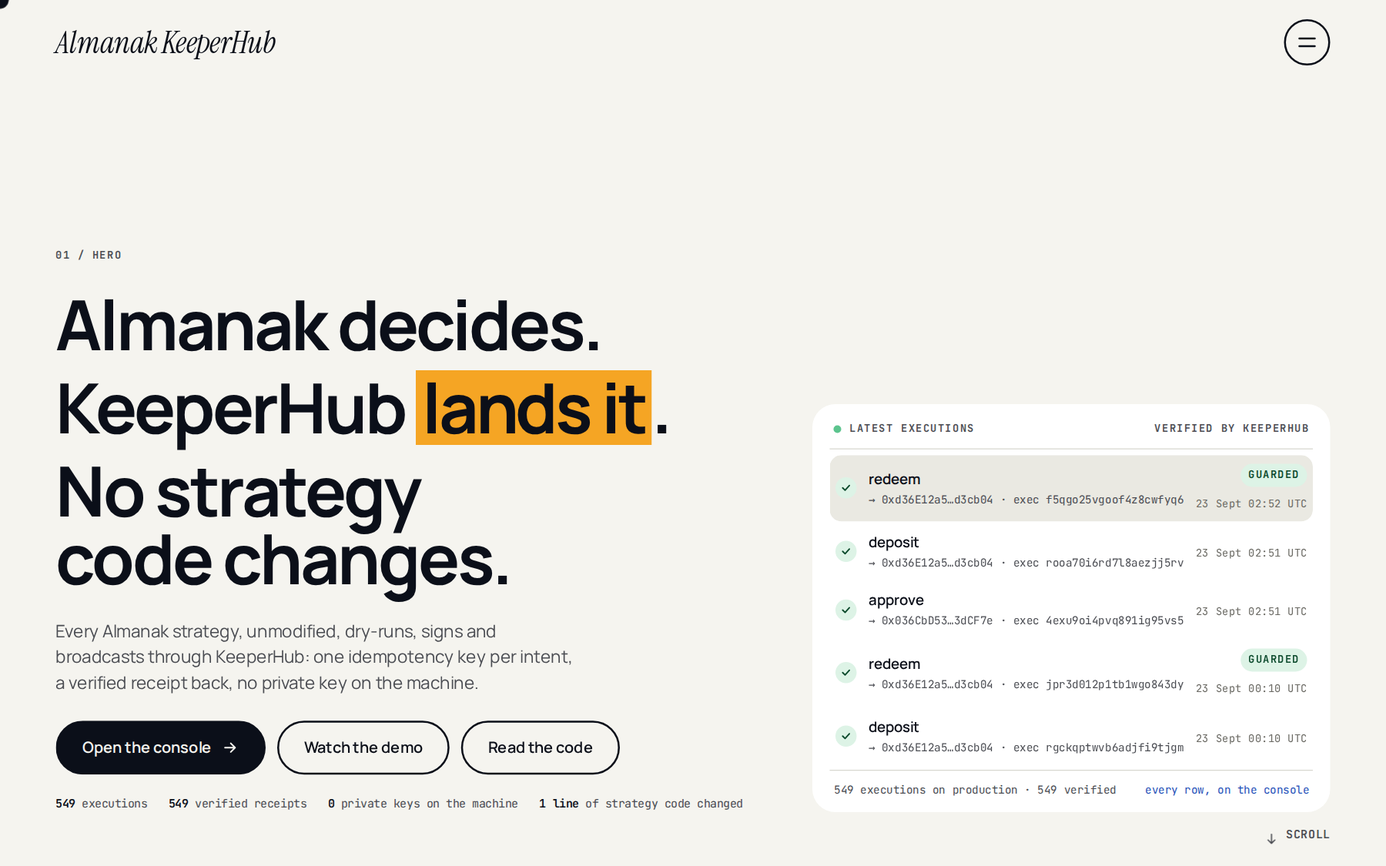
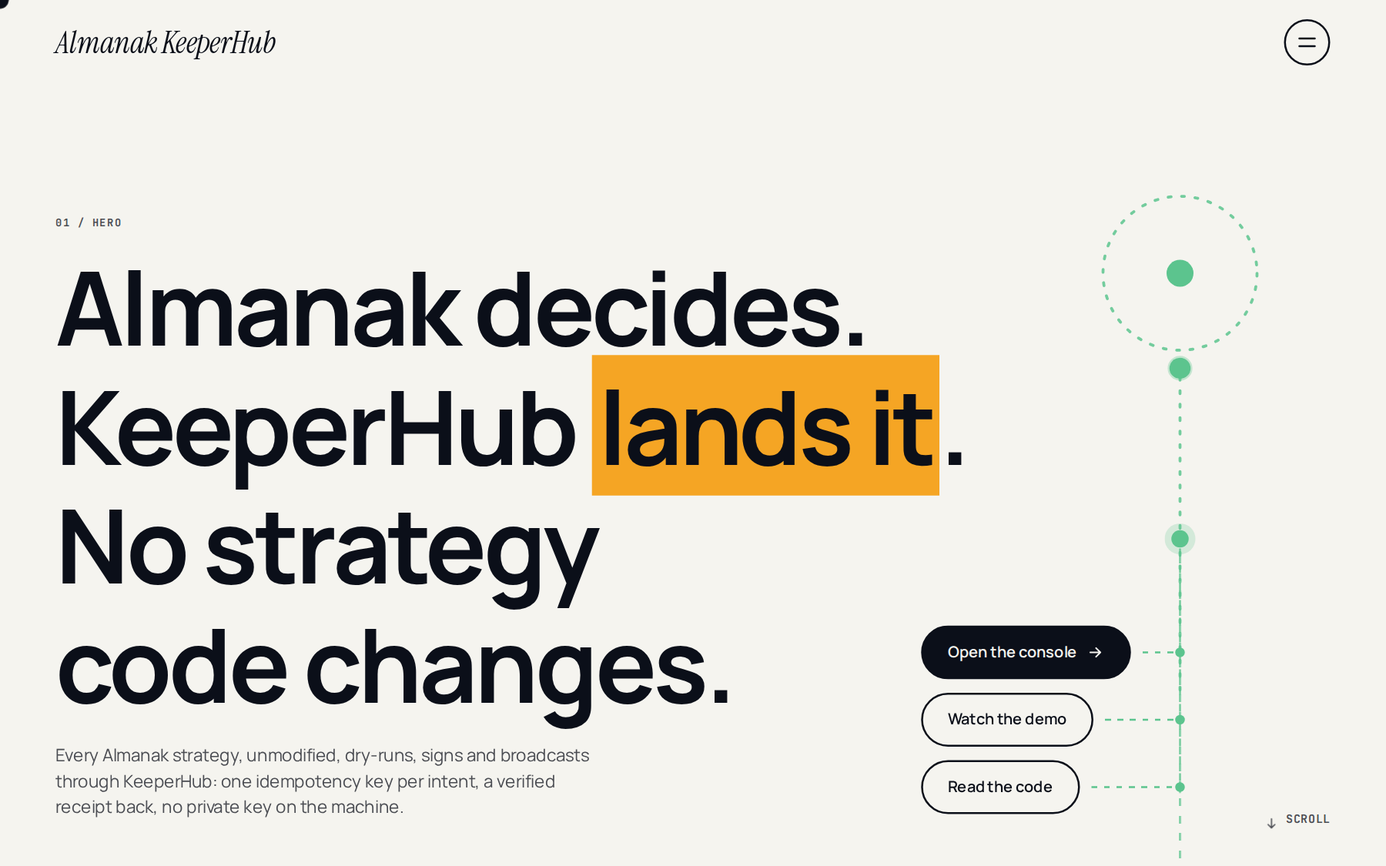
The page as it was, with the green bar replaced by a dashed track and a travelling marker
Everything from before the redesign attempts is back: the hero with the pin and the three buttons as
stops, the menu, the sticky panels, the cursor, the serif wordmark, the footer name. Only the connector
changes. The 28px mint bar that drew itself with the scroll is now a 2px dashed track, always fully
visible, with an 18px marker that travels down it as the reader scrolls, sitting at 62% of the viewport
with the same easing the bar had. The hero pin becomes a dashed ring around a solid origin and a dashed
track with a dot running down it on its own, the stubs to the buttons are dashed with an end dot, and the
route behind the lifecycle cards is dashed too. The pipeline markers still fill as the marker passes.
The strip's upstream figure reads two merged, five in review. README hero and social image retaken.

diff --git a/almanak_keeperhub/console/site.html b/almanak_keeperhub/console/site.html
@@ -63,7 +63,7 @@
     --ink:var(--stone-900); --heading:var(--stone-900); --muted:rgba(11,15,25,.85); --faint:rgba(11,15,25,.7);
     --link:var(--stone-900); --link-hover:var(--stone-950); --hairline:rgba(11,15,25,.28); --strong:var(--stone-900);
   }
-  @media (prefers-reduced-motion:reduce){ .spine-v{transition:none} :root{ --d-fast:0ms; --d-medium:0ms; --d-cover:0ms; --d-path:0ms; --d-line:0ms; --stagger:0ms; } html{scroll-behavior:auto} }
+  @media (prefers-reduced-motion:reduce){ .spine-v::after{transition:none} :root{ --d-fast:0ms; --d-medium:0ms; --d-cover:0ms; --d-path:0ms; --d-line:0ms; --stagger:0ms; } html{scroll-behavior:auto} }
 
   *,*::before,*::after{box-sizing:border-box;box-shadow:none}
   html{background:var(--canvas);scroll-behavior:smooth;scroll-padding-top:96px;-webkit-text-size-adjust:100%}
@@ -220,49 +220,32 @@
   .draw.in path{animation:draw var(--d-path) var(--ease) both;animation-delay:calc(var(--d-path) * .7)}
   @keyframes draw{to{stroke-dashoffset:0}}
 
-  /* ---- hero: the claim on the left, the newest receipts landing on the right ---- */
-  .hero{min-height:100vh;display:grid;align-content:end;padding-top:112px;padding-bottom:56px;position:relative}
+  /* ---- hero ---- */
+  .hero{min-height:100vh;display:grid;align-content:end;padding-top:120px;padding-bottom:48px;position:relative}
   .hero .g{align-items:end}
+  .hero .g>*{grid-row:1}
   .hero h1{max-width:none}
-  .hero .copy{grid-column:1/span 7}
-  .hero .lede{margin-top:22px;color:var(--muted);font-size:var(--body-lg);line-height:1.5;max-width:50ch}
-  .hero .actions{display:flex;flex-wrap:wrap;gap:12px;margin-top:26px}
-  .hero .facts{display:flex;flex-wrap:wrap;gap:8px 22px;margin-top:22px;font-family:var(--mono);font-size:12px;color:var(--muted)}
-  .hero .facts b{color:var(--ink);font-weight:600}
-  .tape{grid-column:8/span 5;background:var(--card);border-radius:var(--r-card-lg);padding:18px 18px 14px;align-self:end}
-  .tape .head{display:flex;align-items:center;justify-content:space-between;gap:12px;padding:0 4px 12px;border-bottom:1px solid var(--hairline)}
-  .tape .head .mono-label{display:flex;align-items:center;gap:8px}
-  .tape .live{width:8px;height:8px;border-radius:999px;background:var(--mint);animation:pulse 2s ease-out infinite}
-  @keyframes pulse{0%{box-shadow:0 0 0 0 rgba(92,196,142,.55)}70%{box-shadow:0 0 0 10px rgba(92,196,142,0)}100%{box-shadow:0 0 0 0 rgba(92,196,142,0)}}
-  .tape ol{list-style:none;margin:0;padding:6px 0 0;display:grid;gap:2px;min-height:0}
-  .tape li{overflow:hidden;border-radius:12px}
-  .tape li .row{display:grid;grid-template-columns:22px 1fr auto;gap:12px;align-items:center;padding:9px 6px;border-radius:12px}
-  .tape li:first-child .row{background:var(--sunken)}
-  .js .tape li .row{transform:translateY(104%)}
-  .js .tape li.in .row{animation:cover-up var(--d-cover) var(--ease) both;animation-delay:calc(var(--stagger)*var(--i,0))}
-  .tape .ok{width:22px;height:22px;border-radius:999px;background:var(--good-c);color:var(--good-on);display:grid;place-items:center}
-  .tape .ok svg{width:12px;height:12px}
-  .tape .fn{font-weight:600;font-size:15px;letter-spacing:-.015em;color:var(--heading)}
-  .tape .to{font-family:var(--mono);font-size:11.5px;color:var(--muted);margin-top:2px}
-  .tape .tag{text-align:right}
-  .tape .tag .chip{margin-bottom:4px}
-  .tape .when{font-family:var(--mono);font-size:11px;color:var(--faint);white-space:nowrap}
-  .tape .foot{display:flex;justify-content:space-between;gap:10px;padding:12px 4px 0;margin-top:6px;border-top:1px solid var(--hairline);font-family:var(--mono);font-size:11.5px;color:var(--muted)}
-  .tape .foot a{color:var(--link)}
-  .cue{position:absolute;right:var(--margin);bottom:24px;display:inline-flex;align-items:center;gap:8px;font-family:var(--mono);font-size:12px;font-weight:600;letter-spacing:.06em;text-transform:uppercase;color:var(--muted);transition:transform var(--d-medium) var(--ease)}
+  .hero .stops{grid-column:9/span 4;align-self:end;width:63.2%;display:flex;flex-direction:column;gap:14px;margin-bottom:6px;position:relative;z-index:1}
+  .hero .stops::before{content:"";position:absolute;right:-1px;top:-80px;bottom:22px;width:2px;background:repeating-linear-gradient(180deg,var(--mint) 0 8px,transparent 8px 18px);opacity:.85;z-index:-1}
+  .hero .stop{display:flex;align-items:center}
+  .hero .stop .btn{flex:0 0 auto}
+  .hero .stop .stub{flex:1;height:2px;min-width:16px;background:repeating-linear-gradient(90deg,var(--mint) 0 6px,transparent 6px 13px);margin-left:12px;position:relative}
+  .hero .stop .stub::after{content:"";position:absolute;right:-5px;top:-4px;width:10px;height:10px;border-radius:999px;background:var(--mint)}
+  .hero .lede{margin-top:28px;color:var(--muted);font-size:var(--body-lg);line-height:1.5;max-width:52ch}
+  .pin{grid-column:10/span 3;justify-self:center;align-self:start;width:min(200px,18vw,26vh);margin-top:-40px}
+  .pin svg{width:100%;height:auto;display:block;overflow:visible}
+  .cue{position:absolute;right:var(--margin);bottom:40px;display:inline-flex;align-items:center;gap:8px;font-family:var(--mono);font-size:12px;font-weight:600;letter-spacing:.06em;text-transform:uppercase;color:var(--muted);transition:transform var(--d-medium) var(--ease)}
   .cue svg{width:14px;height:14px;animation:nudge 1.6s var(--ease) infinite}
   @keyframes nudge{0%,100%{transform:translateY(0)}50%{transform:translateY(6px)}}
   body[data-scrolled="true"] .cue{transform:translateY(120px)}
-  @media (max-width:1024px){ .cue{display:none} .hero{min-height:auto;padding-top:132px} .hero .copy{grid-column:1/-1} .tape{grid-column:1/-1;margin-top:8px} }
-  @media (max-width:520px){ .tape .to .id{display:none} .tape .head .mono-label:last-child{display:none} }
-  @media (prefers-reduced-motion:reduce){ .tape .live{animation:none} }
+  @media (max-width:1024px){ .pin{display:none} .cue{display:none} .hero{min-height:auto;padding-top:132px} .hero .stops{grid-column:1/-1;grid-row:2;align-self:start;width:auto;flex-direction:row;flex-wrap:wrap;gap:12px;margin-top:8px} .hero .stops::before{display:none} .hero .stop .stub{display:none} }
 
   /* ---- the connector spine crossing between sections ---- */
-  .spine-v{position:absolute;width:28px;border-radius:14px;background:var(--mint);z-index:1;pointer-events:none;left:calc(var(--margin) + (100% - 2 * var(--margin)) * .882 - 14px);clip-path:inset(0 0 100% 0 round 14px);transition:clip-path 900ms cubic-bezier(.16,1,.3,1);will-change:clip-path}
-  .spine-v.left{left:calc(var(--margin) + (100% - 2 * var(--margin)) * .315 - 14px)}
+  .spine-v{position:absolute;width:18px;z-index:1;pointer-events:none;left:calc(var(--margin) + (100% - 2 * var(--margin)) * .882 - 9px);--p:0}
+  .spine-v::before{content:"";position:absolute;left:8px;top:0;bottom:0;width:2px;background:repeating-linear-gradient(180deg,var(--mint) 0 8px,transparent 8px 18px);opacity:.85}
+  .spine-v::after{content:"";position:absolute;left:0;top:calc(var(--p) * 100%);width:18px;height:18px;margin-top:-9px;border-radius:999px;background:var(--mint);box-shadow:0 0 0 7px rgba(92,196,142,.22);transition:top 900ms cubic-bezier(.16,1,.3,1)}
+  .spine-v.left{left:calc(var(--margin) + (100% - 2 * var(--margin)) * .315 - 9px)}
   @media (max-width:1024px){ .spine-v{display:none} }
-  .hero h1{font-size:clamp(40px,5vw,74px);line-height:.98}
-  .hero h1 mark{background:linear-gradient(transparent 12%,var(--yellow) 12%,var(--yellow) 90%,transparent 90%);padding:0 .08em;box-decoration-break:clone;-webkit-box-decoration-break:clone}
 
   /* ---- the problem: statement plus a sticky stack of full-height panels ---- */
   .problem-head{display:grid;grid-template-columns:7fr 5fr;gap:var(--gutter);align-items:end}
@@ -320,9 +303,9 @@
   .diagram svg{width:100%;height:auto;display:block}
   .grid3{display:grid;grid-template-columns:repeat(3,1fr);gap:var(--gutter)}
   .route{position:relative}
-  .route::before{content:"";position:absolute;left:6%;right:6%;top:50%;height:4px;margin-top:-2px;background:var(--mint);border-radius:2px}
+  .route::before{content:"";position:absolute;left:6%;right:6%;top:50%;height:2px;margin-top:-1px;background:repeating-linear-gradient(90deg,var(--mint) 0 8px,transparent 8px 18px);opacity:.85}
   .route>.mask{position:relative;z-index:1}
-  @media (max-width:860px){ .route::before{left:50%;right:auto;top:4%;bottom:4%;height:auto;width:4px;margin:0 0 0 -2px} }
+  @media (max-width:860px){ .route::before{left:50%;right:auto;top:4%;bottom:4%;height:auto;width:2px;margin:0 0 0 -1px;background:repeating-linear-gradient(180deg,var(--mint) 0 8px,transparent 8px 18px)} }
   #failures-grid{grid-template-columns:repeat(auto-fit,minmax(300px,1fr))} .grid2{display:grid;grid-template-columns:1fr 1fr;gap:var(--gutter)}
   @media (max-width:860px){ .grid3,.grid2{grid-template-columns:1fr} }
   .sec-head{margin-bottom:40px;max-width:20ch}
@@ -386,22 +369,26 @@
   <!-- 01 / HERO -->
   <section class="hero wrap" data-band="light">
     <div class="g">
-      <div class="copy">
+      <div class="wide" style="grid-column:1/span 9">
         <div class="eyebrow" style="margin-bottom:28px">01 / Hero</div>
-        <h1 class="display-xl rv"><span class="ln"><span>Almanak decides.</span></span><span class="ln"><span>KeeperHub <mark>lands it</mark>.</span></span><span class="ln"><span>No strategy code changes.</span></span></h1>
+        <h1 class="display-xl rv"><span class="ln"><span>Almanak decides.</span></span><span class="ln"><span>KeeperHub <mark>lands it</mark>.</span></span><span class="ln"><span>No strategy</span></span><span class="ln"><span>code changes.</span></span></h1>
         <p class="lede rv"><span class="ln"><span>Every Almanak strategy, unmodified, dry-runs, signs and broadcasts through KeeperHub: one idempotency key per intent, a verified receipt back, no private key on the machine.</span></span></p>
-        <div class="actions mask rv" style="--i:1"><div class="up" style="display:flex;flex-wrap:wrap;gap:12px">
-          <a class="btn" href="console/">Open the console <svg viewBox="0 0 24 24" fill="none" stroke="currentColor" stroke-width="2.2" stroke-linecap="round" stroke-linejoin="round"><path d="M5 12h14M13 6l6 6-6 6"/></svg></a>
-          <a class="btn ghost" href="#video">Watch the demo</a>
-          <a class="btn ghost" href="https://github.com/Prashant-thakur77/almanak-keeperhub">Read the code</a>
-        </div></div>
-        <div class="facts" id="facts"></div>
       </div>
-      <aside class="tape" id="tape" aria-label="The newest executions, as KeeperHub verified them">
-        <div class="head"><span class="mono-label"><span class="live" aria-hidden="true"></span>Latest executions</span><span class="mono-label">verified by KeeperHub</span></div>
-        <ol id="tape-rows"></ol>
-        <div class="foot"><span id="tape-count">loading the proof…</span><a href="console/">every row, on the console</a></div>
-      </aside>
+      <div class="pin" id="pin">
+        <svg viewBox="0 0 200 560" fill="none" aria-hidden="true">
+          <defs><path id="pin-track" d="M100 194 V540"/></defs>
+          <circle cx="100" cy="100" r="80" stroke="#5CC48E" stroke-width="3" stroke-dasharray="3 11" stroke-linecap="round" opacity=".85"/>
+          <circle cx="100" cy="100" r="14" fill="#5CC48E"/>
+          <path d="M100 194 V540" stroke="#5CC48E" stroke-width="3" stroke-dasharray="3 11" stroke-linecap="round" opacity=".85"/>
+          <circle r="11" fill="#5CC48E"><animateMotion dur="3.6s" repeatCount="indefinite" calcMode="spline" keyTimes="0;1" keySplines=".4 0 .2 1"><mpath href="#pin-track"/></animateMotion></circle>
+          <circle r="11" fill="none" stroke="#5CC48E" stroke-width="2" opacity=".35"><animateMotion dur="3.6s" repeatCount="indefinite" calcMode="spline" keyTimes="0;1" keySplines=".4 0 .2 1"><mpath href="#pin-track"/></animateMotion><animate attributeName="r" values="11;22" dur="3.6s" repeatCount="indefinite"/><animate attributeName="opacity" values=".35;0" dur="3.6s" repeatCount="indefinite"/></circle>
+        </svg>
+      </div>
+      <div class="stops" aria-label="Start here">
+        <div class="stop"><a class="btn" href="console/">Open the console <svg viewBox="0 0 24 24" fill="none" stroke="currentColor" stroke-width="2.2" stroke-linecap="round" stroke-linejoin="round"><path d="M5 12h14M13 6l6 6-6 6"/></svg></a><span class="stub"></span></div>
+        <div class="stop"><a class="btn ghost" href="#video">Watch the demo</a><span class="stub"></span></div>
+        <div class="stop"><a class="btn ghost" href="https://github.com/Prashant-thakur77/almanak-keeperhub">Read the code</a><span class="stub"></span></div>
+      </div>
     </div>
     <a class="cue" href="#live" data-scroll-cue><svg viewBox="0 0 24 24" fill="none" stroke="currentColor" stroke-width="2.2" stroke-linecap="round" stroke-linejoin="round"><path d="M12 4v16M6 14l6 6 6-6"/></svg> Scroll</a>
   </section>
@@ -417,7 +404,7 @@
     </div>
     <div class="figures above" id="strip"></div>
     <div class="ticker above" id="ticker" aria-label="The newest executions"></div>
-    <div class="spine-v" style="top:0;bottom:-96px" aria-hidden="true"></div>
+    <div class="spine-v" style="top:-340px;bottom:-96px" aria-hidden="true"></div>
   </section>
 
   <!-- 03 / THE PROBLEM -->
@@ -730,8 +717,8 @@ almanak-keeperhub api-features --chain base_sepolia
   function polarity() { if (menu.dataset.open !== "true") $("top-bar").dataset.on = bandUnderHeader(); document.body.dataset.scrolled = scrollY > 80 ? "true" : "false"; }
   addEventListener("scroll", polarity, { passive: true }); addEventListener("resize", polarity); polarity();
 
-  /* the connector lines draw with the scroll: the drawn tip sits at 62% of the viewport height, so the line
-     leads the reader down the page and finishes as its section does. Reduced motion draws them fully. */
+  /* the marker on each dashed track follows the scroll: it sits at 62% of the viewport height, so it leads the
+     reader down the page and reaches the end as its section does. Reduced motion parks it at the end. */
   const lines = () => [...document.querySelectorAll(".spine-v")];
   let lineTick = false;
   function drawLines() {
@@ -740,8 +727,8 @@ almanak-keeperhub api-features --chain base_sepolia
     for (const el of lines()) {
       const r = el.getBoundingClientRect(); const top = r.top + scrollY, h = Math.max(1, r.height);
       const p = reduced ? 1 : Math.min(1, Math.max(0, (tip - top) / h));
-      // a clip rather than a scale, so the rounded tip keeps its shape; the CSS transition eases each new target
-      el.style.clipPath = `inset(0 0 ${((1 - p) * 100).toFixed(2)}% 0 round ${el.classList.contains("line") ? 2 : 14}px)`;
+      // the CSS transition on the marker's top eases each new target
+      el.style.setProperty("--p", p.toFixed(4));
     }
     for (const m of document.querySelectorAll("#pipeline .m")) { const r = m.getBoundingClientRect(); m.classList.toggle("on", !reduced ? r.top + scrollY + r.height / 2 < tip : true); }
   }
@@ -814,15 +801,6 @@ almanak-keeperhub api-features --chain base_sepolia
     const card = (e) => `<div class="tk"><div class="fn">${esc(e.function)} <span class="chip ${e.status === "completed" ? "good" : "warn"}">${esc(e.status)}</span></div><div class="mono-ui">exec ${esc(e.execution_id)}</div><div class="mono-ui">${e.tx_hash ? "tx " + esc(short(e.tx_hash)) : "no broadcast"} · ${esc(when(e.recorded_at))} UTC</div></div>`;
     const a = rows.slice(0, 12).map(card).join(""), b = rows.slice(12, 24).map(card).join("") || a;
     $("ticker").innerHTML = `<div class="row">${a}${a}</div><div class="row rev">${b}${b}</div>`;
-  }
-  function tape(ex, s) {
-    const rows = (ex || []).filter((e) => e.status === "completed").slice(0, 5);
-    const list = $("tape-rows");
-    const row = (e, i) => { const flags = e.idempotent_replay ? "replay" : e.guarded ? "guarded" : e.sponsored ? "sponsored gas" : ""; return `<li class="mask" style="--i:${i + 2}"><div class="row up"><span class="ok" aria-label="verified"><svg viewBox="0 0 24 24" fill="none" stroke="currentColor" stroke-width="3" stroke-linecap="round" stroke-linejoin="round"><path d="M5 12l5 5L19 7"/></svg></span><div><div class="fn">${esc(e.function)}</div><div class="to">→ ${esc(short(e.to || ""))}<span class="id"> · exec ${esc(e.execution_id)}</span></div></div><div class="tag">${flags ? `<span class="chip ${e.idempotent_replay ? "info" : "good"}">${esc(flags)}</span><br>` : ""}<span class="when">${esc(when(e.recorded_at))} UTC</span></div></div></li>`; };
-    list.innerHTML = rows.length ? rows.map(row).join("") : `<li class="mask in"><div class="row up"><span class="ok"></span><div class="fn">no executions recorded yet</div></div></li>`;
-    watch(list);
-    $("tape-count").textContent = `${s.executions} executions on production · ${s.verified} verified`;
-    $("facts").innerHTML = [[`${s.executions}`, "executions"], [`${s.verified}`, "verified receipts"], ["0", "private keys on the machine"], ["1 line", "of strategy code changed"]].map(([v, l]) => `<span><b>${esc(v)}</b> ${esc(l)}</span>`).join("");
   }
   function pipeline(s) {
     const st = [
@@ -914,7 +892,7 @@ almanak-keeperhub api-features --chain base_sepolia
     try { cfg = await (await fetch("site.json")).json(); } catch (e) { cfg = null; }
     const s = state.summary, c = state.conformance, f = state.api_features;
     $("fresh").textContent = state.snapshot_at || state.generated_at || "";
-    figures(s, state); tape(state.executions || [], s); ticker(state.executions || []); pipeline(s); results(state.benchmark, s); lifecycle(state.executions || []); failures(state.failure_modes || []); video(cfg); nextRun(state.snapshot_at); gateCase(); queueLines(); setTimeout(queueLines, 1200);
+    figures(s, state); ticker(state.executions || []); pipeline(s); results(state.benchmark, s); lifecycle(state.executions || []); failures(state.failure_modes || []); video(cfg); nextRun(state.snapshot_at); gateCase(); queueLines(); setTimeout(queueLines, 1200);
     $("footer").innerHTML = [
       `Published by the <a href="https://github.com/Prashant-thakur77/almanak-keeperhub/actions/workflows/proof.yml" style="color:var(--stone)">proof workflow</a> on ${esc(state.snapshot_at || "")}`,
       f ? `raw calldata: ${f.raw_calldata ? "yes" : "not yet"}, sequence dry runs: ${f.call_sequence ? "yes" : "not yet"}` : "",

diff --git a/docs/index.html b/docs/index.html
@@ -63,7 +63,7 @@
     --ink:var(--stone-900); --heading:var(--stone-900); --muted:rgba(11,15,25,.85); --faint:rgba(11,15,25,.7);
     --link:var(--stone-900); --link-hover:var(--stone-950); --hairline:rgba(11,15,25,.28); --strong:var(--stone-900);
   }
-  @media (prefers-reduced-motion:reduce){ .spine-v{transition:none} :root{ --d-fast:0ms; --d-medium:0ms; --d-cover:0ms; --d-path:0ms; --d-line:0ms; --stagger:0ms; } html{scroll-behavior:auto} }
+  @media (prefers-reduced-motion:reduce){ .spine-v::after{transition:none} :root{ --d-fast:0ms; --d-medium:0ms; --d-cover:0ms; --d-path:0ms; --d-line:0ms; --stagger:0ms; } html{scroll-behavior:auto} }
 
   *,*::before,*::after{box-sizing:border-box;box-shadow:none}
   html{background:var(--canvas);scroll-behavior:smooth;scroll-padding-top:96px;-webkit-text-size-adjust:100%}
@@ -220,49 +220,32 @@
   .draw.in path{animation:draw var(--d-path) var(--ease) both;animation-delay:calc(var(--d-path) * .7)}
   @keyframes draw{to{stroke-dashoffset:0}}
 
-  /* ---- hero: the claim on the left, the newest receipts landing on the right ---- */
-  .hero{min-height:100vh;display:grid;align-content:end;padding-top:112px;padding-bottom:56px;position:relative}
+  /* ---- hero ---- */
+  .hero{min-height:100vh;display:grid;align-content:end;padding-top:120px;padding-bottom:48px;position:relative}
   .hero .g{align-items:end}
+  .hero .g>*{grid-row:1}
   .hero h1{max-width:none}
-  .hero .copy{grid-column:1/span 7}
-  .hero .lede{margin-top:22px;color:var(--muted);font-size:var(--body-lg);line-height:1.5;max-width:50ch}
-  .hero .actions{display:flex;flex-wrap:wrap;gap:12px;margin-top:26px}
-  .hero .facts{display:flex;flex-wrap:wrap;gap:8px 22px;margin-top:22px;font-family:var(--mono);font-size:12px;color:var(--muted)}
-  .hero .facts b{color:var(--ink);font-weight:600}
-  .tape{grid-column:8/span 5;background:var(--card);border-radius:var(--r-card-lg);padding:18px 18px 14px;align-self:end}
-  .tape .head{display:flex;align-items:center;justify-content:space-between;gap:12px;padding:0 4px 12px;border-bottom:1px solid var(--hairline)}
-  .tape .head .mono-label{display:flex;align-items:center;gap:8px}
-  .tape .live{width:8px;height:8px;border-radius:999px;background:var(--mint);animation:pulse 2s ease-out infinite}
-  @keyframes pulse{0%{box-shadow:0 0 0 0 rgba(92,196,142,.55)}70%{box-shadow:0 0 0 10px rgba(92,196,142,0)}100%{box-shadow:0 0 0 0 rgba(92,196,142,0)}}
-  .tape ol{list-style:none;margin:0;padding:6px 0 0;display:grid;gap:2px;min-height:0}
-  .tape li{overflow:hidden;border-radius:12px}
-  .tape li .row{display:grid;grid-template-columns:22px 1fr auto;gap:12px;align-items:center;padding:9px 6px;border-radius:12px}
-  .tape li:first-child .row{background:var(--sunken)}
-  .js .tape li .row{transform:translateY(104%)}
-  .js .tape li.in .row{animation:cover-up var(--d-cover) var(--ease) both;animation-delay:calc(var(--stagger)*var(--i,0))}
-  .tape .ok{width:22px;height:22px;border-radius:999px;background:var(--good-c);color:var(--good-on);display:grid;place-items:center}
-  .tape .ok svg{width:12px;height:12px}
-  .tape .fn{font-weight:600;font-size:15px;letter-spacing:-.015em;color:var(--heading)}
-  .tape .to{font-family:var(--mono);font-size:11.5px;color:var(--muted);margin-top:2px}
-  .tape .tag{text-align:right}
-  .tape .tag .chip{margin-bottom:4px}
-  .tape .when{font-family:var(--mono);font-size:11px;color:var(--faint);white-space:nowrap}
-  .tape .foot{display:flex;justify-content:space-between;gap:10px;padding:12px 4px 0;margin-top:6px;border-top:1px solid var(--hairline);font-family:var(--mono);font-size:11.5px;color:var(--muted)}
-  .tape .foot a{color:var(--link)}
-  .cue{position:absolute;right:var(--margin);bottom:24px;display:inline-flex;align-items:center;gap:8px;font-family:var(--mono);font-size:12px;font-weight:600;letter-spacing:.06em;text-transform:uppercase;color:var(--muted);transition:transform var(--d-medium) var(--ease)}
+  .hero .stops{grid-column:9/span 4;align-self:end;width:63.2%;display:flex;flex-direction:column;gap:14px;margin-bottom:6px;position:relative;z-index:1}
+  .hero .stops::before{content:"";position:absolute;right:-1px;top:-80px;bottom:22px;width:2px;background:repeating-linear-gradient(180deg,var(--mint) 0 8px,transparent 8px 18px);opacity:.85;z-index:-1}
+  .hero .stop{display:flex;align-items:center}
+  .hero .stop .btn{flex:0 0 auto}
+  .hero .stop .stub{flex:1;height:2px;min-width:16px;background:repeating-linear-gradient(90deg,var(--mint) 0 6px,transparent 6px 13px);margin-left:12px;position:relative}
+  .hero .stop .stub::after{content:"";position:absolute;right:-5px;top:-4px;width:10px;height:10px;border-radius:999px;background:var(--mint)}
+  .hero .lede{margin-top:28px;color:var(--muted);font-size:var(--body-lg);line-height:1.5;max-width:52ch}
+  .pin{grid-column:10/span 3;justify-self:center;align-self:start;width:min(200px,18vw,26vh);margin-top:-40px}
+  .pin svg{width:100%;height:auto;display:block;overflow:visible}
+  .cue{position:absolute;right:var(--margin);bottom:40px;display:inline-flex;align-items:center;gap:8px;font-family:var(--mono);font-size:12px;font-weight:600;letter-spacing:.06em;text-transform:uppercase;color:var(--muted);transition:transform var(--d-medium) var(--ease)}
   .cue svg{width:14px;height:14px;animation:nudge 1.6s var(--ease) infinite}
   @keyframes nudge{0%,100%{transform:translateY(0)}50%{transform:translateY(6px)}}
   body[data-scrolled="true"] .cue{transform:translateY(120px)}
-  @media (max-width:1024px){ .cue{display:none} .hero{min-height:auto;padding-top:132px} .hero .copy{grid-column:1/-1} .tape{grid-column:1/-1;margin-top:8px} }
-  @media (max-width:520px){ .tape .to .id{display:none} .tape .head .mono-label:last-child{display:none} }
-  @media (prefers-reduced-motion:reduce){ .tape .live{animation:none} }
+  @media (max-width:1024px){ .pin{display:none} .cue{display:none} .hero{min-height:auto;padding-top:132px} .hero .stops{grid-column:1/-1;grid-row:2;align-self:start;width:auto;flex-direction:row;flex-wrap:wrap;gap:12px;margin-top:8px} .hero .stops::before{display:none} .hero .stop .stub{display:none} }
 
   /* ---- the connector spine crossing between sections ---- */
-  .spine-v{position:absolute;width:28px;border-radius:14px;background:var(--mint);z-index:1;pointer-events:none;left:calc(var(--margin) + (100% - 2 * var(--margin)) * .882 - 14px);clip-path:inset(0 0 100% 0 round 14px);transition:clip-path 900ms cubic-bezier(.16,1,.3,1);will-change:clip-path}
-  .spine-v.left{left:calc(var(--margin) + (100% - 2 * var(--margin)) * .315 - 14px)}
+  .spine-v{position:absolute;width:18px;z-index:1;pointer-events:none;left:calc(var(--margin) + (100% - 2 * var(--margin)) * .882 - 9px);--p:0}
+  .spine-v::before{content:"";position:absolute;left:8px;top:0;bottom:0;width:2px;background:repeating-linear-gradient(180deg,var(--mint) 0 8px,transparent 8px 18px);opacity:.85}
+  .spine-v::after{content:"";position:absolute;left:0;top:calc(var(--p) * 100%);width:18px;height:18px;margin-top:-9px;border-radius:999px;background:var(--mint);box-shadow:0 0 0 7px rgba(92,196,142,.22);transition:top 900ms cubic-bezier(.16,1,.3,1)}
+  .spine-v.left{left:calc(var(--margin) + (100% - 2 * var(--margin)) * .315 - 9px)}
   @media (max-width:1024px){ .spine-v{display:none} }
-  .hero h1{font-size:clamp(40px,5vw,74px);line-height:.98}
-  .hero h1 mark{background:linear-gradient(transparent 12%,var(--yellow) 12%,var(--yellow) 90%,transparent 90%);padding:0 .08em;box-decoration-break:clone;-webkit-box-decoration-break:clone}
 
   /* ---- the problem: statement plus a sticky stack of full-height panels ---- */
   .problem-head{display:grid;grid-template-columns:7fr 5fr;gap:var(--gutter);align-items:end}
@@ -320,9 +303,9 @@
   .diagram svg{width:100%;height:auto;display:block}
   .grid3{display:grid;grid-template-columns:repeat(3,1fr);gap:var(--gutter)}
   .route{position:relative}
-  .route::before{content:"";position:absolute;left:6%;right:6%;top:50%;height:4px;margin-top:-2px;background:var(--mint);border-radius:2px}
+  .route::before{content:"";position:absolute;left:6%;right:6%;top:50%;height:2px;margin-top:-1px;background:repeating-linear-gradient(90deg,var(--mint) 0 8px,transparent 8px 18px);opacity:.85}
   .route>.mask{position:relative;z-index:1}
-  @media (max-width:860px){ .route::before{left:50%;right:auto;top:4%;bottom:4%;height:auto;width:4px;margin:0 0 0 -2px} }
+  @media (max-width:860px){ .route::before{left:50%;right:auto;top:4%;bottom:4%;height:auto;width:2px;margin:0 0 0 -1px;background:repeating-linear-gradient(180deg,var(--mint) 0 8px,transparent 8px 18px)} }
   #failures-grid{grid-template-columns:repeat(auto-fit,minmax(300px,1fr))} .grid2{display:grid;grid-template-columns:1fr 1fr;gap:var(--gutter)}
   @media (max-width:860px){ .grid3,.grid2{grid-template-columns:1fr} }
   .sec-head{margin-bottom:40px;max-width:20ch}
@@ -386,22 +369,26 @@
   <!-- 01 / HERO -->
   <section class="hero wrap" data-band="light">
     <div class="g">
-      <div class="copy">
+      <div class="wide" style="grid-column:1/span 9">
         <div class="eyebrow" style="margin-bottom:28px">01 / Hero</div>
-        <h1 class="display-xl rv"><span class="ln"><span>Almanak decides.</span></span><span class="ln"><span>KeeperHub <mark>lands it</mark>.</span></span><span class="ln"><span>No strategy code changes.</span></span></h1>
+        <h1 class="display-xl rv"><span class="ln"><span>Almanak decides.</span></span><span class="ln"><span>KeeperHub <mark>lands it</mark>.</span></span><span class="ln"><span>No strategy</span></span><span class="ln"><span>code changes.</span></span></h1>
         <p class="lede rv"><span class="ln"><span>Every Almanak strategy, unmodified, dry-runs, signs and broadcasts through KeeperHub: one idempotency key per intent, a verified receipt back, no private key on the machine.</span></span></p>
-        <div class="actions mask rv" style="--i:1"><div class="up" style="display:flex;flex-wrap:wrap;gap:12px">
-          <a class="btn" href="console/">Open the console <svg viewBox="0 0 24 24" fill="none" stroke="currentColor" stroke-width="2.2" stroke-linecap="round" stroke-linejoin="round"><path d="M5 12h14M13 6l6 6-6 6"/></svg></a>
-          <a class="btn ghost" href="#video">Watch the demo</a>
-          <a class="btn ghost" href="https://github.com/Prashant-thakur77/almanak-keeperhub">Read the code</a>
-        </div></div>
-        <div class="facts" id="facts"></div>
       </div>
-      <aside class="tape" id="tape" aria-label="The newest executions, as KeeperHub verified them">
-        <div class="head"><span class="mono-label"><span class="live" aria-hidden="true"></span>Latest executions</span><span class="mono-label">verified by KeeperHub</span></div>
-        <ol id="tape-rows"></ol>
-        <div class="foot"><span id="tape-count">loading the proof…</span><a href="console/">every row, on the console</a></div>
-      </aside>
+      <div class="pin" id="pin">
+        <svg viewBox="0 0 200 560" fill="none" aria-hidden="true">
+          <defs><path id="pin-track" d="M100 194 V540"/></defs>
+          <circle cx="100" cy="100" r="80" stroke="#5CC48E" stroke-width="3" stroke-dasharray="3 11" stroke-linecap="round" opacity=".85"/>
+          <circle cx="100" cy="100" r="14" fill="#5CC48E"/>
+          <path d="M100 194 V540" stroke="#5CC48E" stroke-width="3" stroke-dasharray="3 11" stroke-linecap="round" opacity=".85"/>
+          <circle r="11" fill="#5CC48E"><animateMotion dur="3.6s" repeatCount="indefinite" calcMode="spline" keyTimes="0;1" keySplines=".4 0 .2 1"><mpath href="#pin-track"/></animateMotion></circle>
+          <circle r="11" fill="none" stroke="#5CC48E" stroke-width="2" opacity=".35"><animateMotion dur="3.6s" repeatCount="indefinite" calcMode="spline" keyTimes="0;1" keySplines=".4 0 .2 1"><mpath href="#pin-track"/></animateMotion><animate attributeName="r" values="11;22" dur="3.6s" repeatCount="indefinite"/><animate attributeName="opacity" values=".35;0" dur="3.6s" repeatCount="indefinite"/></circle>
+        </svg>
+      </div>
+      <div class="stops" aria-label="Start here">
+        <div class="stop"><a class="btn" href="console/">Open the console <svg viewBox="0 0 24 24" fill="none" stroke="currentColor" stroke-width="2.2" stroke-linecap="round" stroke-linejoin="round"><path d="M5 12h14M13 6l6 6-6 6"/></svg></a><span class="stub"></span></div>
+        <div class="stop"><a class="btn ghost" href="#video">Watch the demo</a><span class="stub"></span></div>
+        <div class="stop"><a class="btn ghost" href="https://github.com/Prashant-thakur77/almanak-keeperhub">Read the code</a><span class="stub"></span></div>
+      </div>
     </div>
     <a class="cue" href="#live" data-scroll-cue><svg viewBox="0 0 24 24" fill="none" stroke="currentColor" stroke-width="2.2" stroke-linecap="round" stroke-linejoin="round"><path d="M12 4v16M6 14l6 6 6-6"/></svg> Scroll</a>
   </section>
@@ -417,7 +404,7 @@
     </div>
     <div class="figures above" id="strip"></div>
     <div class="ticker above" id="ticker" aria-label="The newest executions"></div>
-    <div class="spine-v" style="top:0;bottom:-96px" aria-hidden="true"></div>
+    <div class="spine-v" style="top:-340px;bottom:-96px" aria-hidden="true"></div>
   </section>
 
   <!-- 03 / THE PROBLEM -->
@@ -730,8 +717,8 @@ almanak-keeperhub api-features --chain base_sepolia
   function polarity() { if (menu.dataset.open !== "true") $("top-bar").dataset.on = bandUnderHeader(); document.body.dataset.scrolled = scrollY > 80 ? "true" : "false"; }
   addEventListener("scroll", polarity, { passive: true }); addEventListener("resize", polarity); polarity();
 
-  /* the connector lines draw with the scroll: the drawn tip sits at 62% of the viewport height, so the line
-     leads the reader down the page and finishes as its section does. Reduced motion draws them fully. */
+  /* the marker on each dashed track follows the scroll: it sits at 62% of the viewport height, so it leads the
+     reader down the page and reaches the end as its section does. Reduced motion parks it at the end. */
   const lines = () => [...document.querySelectorAll(".spine-v")];
   let lineTick = false;
   function drawLines() {
@@ -740,8 +727,8 @@ almanak-keeperhub api-features --chain base_sepolia
     for (const el of lines()) {
       const r = el.getBoundingClientRect(); const top = r.top + scrollY, h = Math.max(1, r.height);
       const p = reduced ? 1 : Math.min(1, Math.max(0, (tip - top) / h));
-      // a clip rather than a scale, so the rounded tip keeps its shape; the CSS transition eases each new target
-      el.style.clipPath = `inset(0 0 ${((1 - p) * 100).toFixed(2)}% 0 round ${el.classList.contains("line") ? 2 : 14}px)`;
+      // the CSS transition on the marker's top eases each new target
+      el.style.setProperty("--p", p.toFixed(4));
     }
     for (const m of document.querySelectorAll("#pipeline .m")) { const r = m.getBoundingClientRect(); m.classList.toggle("on", !reduced ? r.top + scrollY + r.height / 2 < tip : true); }
   }
@@ -814,15 +801,6 @@ almanak-keeperhub api-features --chain base_sepolia
     const card = (e) => `<div class="tk"><div class="fn">${esc(e.function)} <span class="chip ${e.status === "completed" ? "good" : "warn"}">${esc(e.status)}</span></div><div class="mono-ui">exec ${esc(e.execution_id)}</div><div class="mono-ui">${e.tx_hash ? "tx " + esc(short(e.tx_hash)) : "no broadcast"} · ${esc(when(e.recorded_at))} UTC</div></div>`;
     const a = rows.slice(0, 12).map(card).join(""), b = rows.slice(12, 24).map(card).join("") || a;
     $("ticker").innerHTML = `<div class="row">${a}${a}</div><div class="row rev">${b}${b}</div>`;
-  }
-  function tape(ex, s) {
-    const rows = (ex || []).filter((e) => e.status === "completed").slice(0, 5);
-    const list = $("tape-rows");
-    const row = (e, i) => { const flags = e.idempotent_replay ? "replay" : e.guarded ? "guarded" : e.sponsored ? "sponsored gas" : ""; return `<li class="mask" style="--i:${i + 2}"><div class="row up"><span class="ok" aria-label="verified"><svg viewBox="0 0 24 24" fill="none" stroke="currentColor" stroke-width="3" stroke-linecap="round" stroke-linejoin="round"><path d="M5 12l5 5L19 7"/></svg></span><div><div class="fn">${esc(e.function)}</div><div class="to">→ ${esc(short(e.to || ""))}<span class="id"> · exec ${esc(e.execution_id)}</span></div></div><div class="tag">${flags ? `<span class="chip ${e.idempotent_replay ? "info" : "good"}">${esc(flags)}</span><br>` : ""}<span class="when">${esc(when(e.recorded_at))} UTC</span></div></div></li>`; };
-    list.innerHTML = rows.length ? rows.map(row).join("") : `<li class="mask in"><div class="row up"><span class="ok"></span><div class="fn">no executions recorded yet</div></div></li>`;
-    watch(list);
-    $("tape-count").textContent = `${s.executions} executions on production · ${s.verified} verified`;
-    $("facts").innerHTML = [[`${s.executions}`, "executions"], [`${s.verified}`, "verified receipts"], ["0", "private keys on the machine"], ["1 line", "of strategy code changed"]].map(([v, l]) => `<span><b>${esc(v)}</b> ${esc(l)}</span>`).join("");
   }
   function pipeline(s) {
     const st = [
@@ -914,7 +892,7 @@ almanak-keeperhub api-features --chain base_sepolia
     try { cfg = await (await fetch("site.json")).json(); } catch (e) { cfg = null; }
     const s = state.summary, c = state.conformance, f = state.api_features;
     $("fresh").textContent = state.snapshot_at || state.generated_at || "";
-    figures(s, state); tape(state.executions || [], s); ticker(state.executions || []); pipeline(s); results(state.benchmark, s); lifecycle(state.executions || []); failures(state.failure_modes || []); video(cfg); nextRun(state.snapshot_at); gateCase(); queueLines(); setTimeout(queueLines, 1200);
+    figures(s, state); ticker(state.executions || []); pipeline(s); results(state.benchmark, s); lifecycle(state.executions || []); failures(state.failure_modes || []); video(cfg); nextRun(state.snapshot_at); gateCase(); queueLines(); setTimeout(queueLines, 1200);
     $("footer").innerHTML = [
       `Published by the <a href="https://github.com/Prashant-thakur77/almanak-keeperhub/actions/workflows/proof.yml" style="color:var(--stone)">proof workflow</a> on ${esc(state.snapshot_at || "")}`,
       f ? `raw calldata: ${f.raw_calldata ? "yes" : "not yet"}, sequence dry runs: ${f.call_sequence ? "yes" : "not yet"}` : "",

diff --git a/CHANGELOG.md b/CHANGELOG.md
@@ -9,10 +9,10 @@ independently of releases, by the runner, every six hours.
   `--write` split as the bot's `/guard` and `/guard stale`.
 - The front page and the console redesigned. Manrope with an Instrument Serif italic wordmark ("Almanak KeeperHub",
   full-width in the footer), self-hosted; a near-black, mint and amber palette drawn from the project's own mark;
-  numbered section kickers; a connector line that draws with the scroll (tip at 62% of the viewport, eased); a hero
-  that sets the claim beside a live tape of the newest executions as KeeperHub verified them, each row landing in
-  turn, with a plain row of buttons under the claim; the three problems as a sticky stack of full-height two-tone
-  panels; the six steps with markers that fill as the line passes; the Condition gate and the authority model as
+  numbered section kickers; a dashed connector track with a marker that travels with the scroll (at 62% of the
+  viewport, eased), the hero's three buttons hanging off it as stops and a dot running down the hero's own track;
+  the three problems as a sticky stack of full-height two-tone
+  panels; the six steps with markers that fill as the marker passes; the Condition gate and the authority model as
   connector diagrams; a live ring for the next runner tick; the lifecycle cards on a route; a merged / in review /
   proposed bar over the upstream table; a full-screen numbered menu whose field takes the hovered item's colour;
   a dark theme on both pages that follows the system and remembers; a dot cursor that inverts against its

diff --git a/README.md b/README.md
@@ -32,7 +32,7 @@ MCP server, and two KeeperHub workflows generated from the strategy config and r
 The badges in the second row are read from the published console state and refreshed by the proof runner, so
 they say what the console says.
 
-[![The site: the claim beside the newest executions, each one verified by KeeperHub](docs/img/site.png)](https://prashant-thakur77.github.io/almanak-keeperhub/)
+[![The site: the claim, with the console, the demo and the code hanging off the track](docs/img/site.png)](https://prashant-thakur77.github.io/almanak-keeperhub/)
 
 **Contents:** [The result](#the-result) · [Judge links](#judge-links) · [How it works](#how-it-works) ·
 [Run it](#run-it-in-five-minutes) · [The free path](#the-free-path-base-sepolia) · [Console](#execution-console) ·
